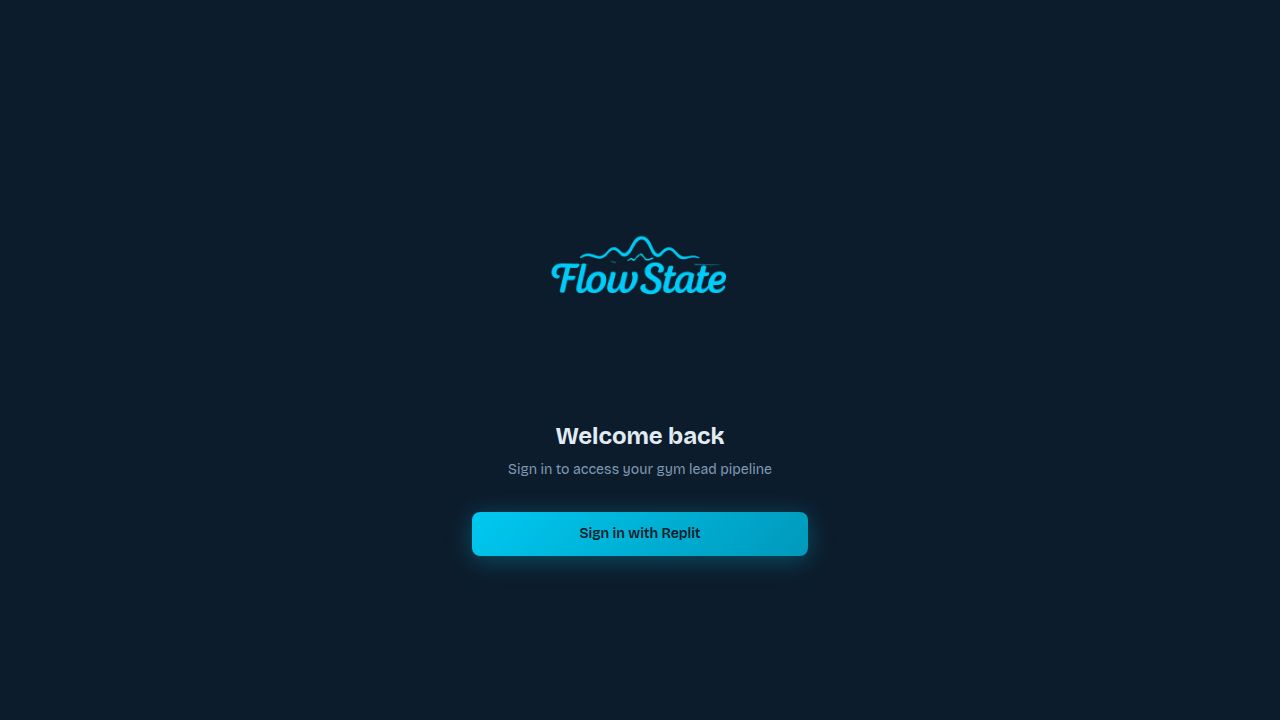
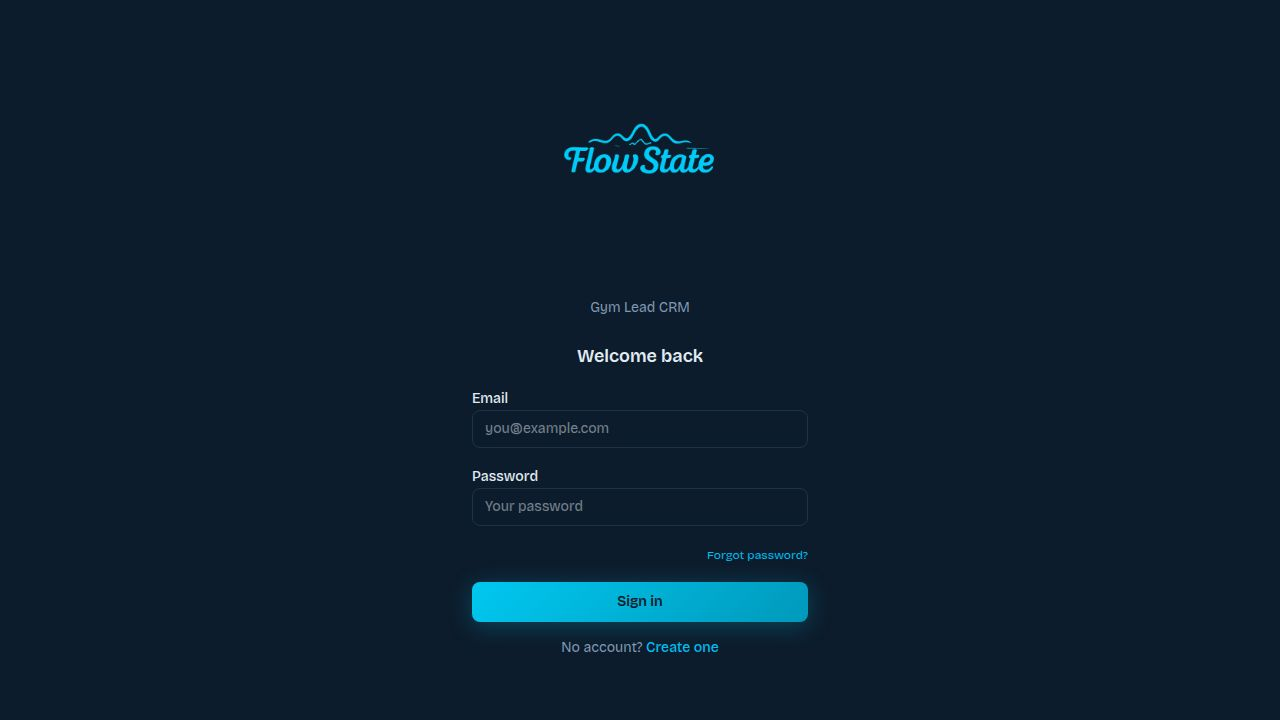
Replace Replit OIDC auth with email+password on web and mobile
- Fixed orval codegen naming conflict: renamed OpenAPI auth schemas to use
  Input/Result suffixes so orval-generated Zod names don't clash with TS interfaces
- Added GET /auth/verify-email to OpenAPI spec to match backend (was missing)
- Converted lib/replit-auth-web to a proper React Context (AuthProvider + useAuth)
  so logout from the sidebar propagates globally and LoginGate re-evaluates
- Updated gym-leads App.tsx to wrap with <AuthProvider>; full email+password UI
  with Login, Register, ForgotPassword, CheckEmail, ResetPassword views
- Rewrote mobile AuthContext.tsx: Bearer token stored in SecureStore, login()
  calls POST /api/auth/login, logout clears token + calls /api/logout
- Rewrote mobile login.tsx: email+password form with forgot-password flow
- auth.ts getSessionId() supports both Cookie and Authorization: Bearer header
- Removed openid-client from api-server, expo-auth-session from gym-mobile
- End-to-end tested: registration, login (cookie + Bearer), protected routes,
  logout all verified working; codegen and TypeScript typecheck pass

diff --git a/lib/replit-auth-web/src/use-auth.ts b/lib/replit-auth-web/src/use-auth.ts
@@ -1,7 +1,15 @@
-import { useState, useEffect, useCallback } from "react";
-import type { AuthUser } from "@workspace/api-client-react";
+import { useState, useEffect, useCallback, createContext, useContext, type ReactNode } from "react";
+import { createElement } from "react";
 
-export type { AuthUser };
+export interface AuthUser {
+  id: string;
+  email: string | null;
+  name: string | null;
+  role: string;
+  firstName: string | null;
+  lastName: string | null;
+  profileImageUrl: string | null;
+}
 
 interface AuthState {
   user: AuthUser | null;
@@ -11,13 +19,16 @@ interface AuthState {
   refetch: () => void;
 }
 
-export function useAuth(): AuthState {
+const AuthContext = createContext<AuthState | null>(null);
+
+export function AuthProvider({ children }: { children: ReactNode }) {
   const [user, setUser] = useState<AuthUser | null>(null);
   const [isLoading, setIsLoading] = useState(true);
   const [tick, setTick] = useState(0);
 
   useEffect(() => {
     let cancelled = false;
+    setIsLoading(true);
 
     fetch("/api/auth/user", { credentials: "include" })
       .then((res) => {
@@ -51,11 +62,16 @@ export function useAuth(): AuthState {
     setTick((t) => t + 1);
   }, []);
 
-  return {
-    user,
-    isLoading,
-    isAuthenticated: !!user,
-    logout,
-    refetch,
-  };
+  return createElement(AuthContext.Provider, {
+    value: { user, isLoading, isAuthenticated: !!user, logout, refetch },
+    children,
+  });
+}
+
+export function useAuth(): AuthState {
+  const ctx = useContext(AuthContext);
+  if (!ctx) {
+    throw new Error("useAuth must be used inside <AuthProvider>. Wrap your app in <AuthProvider>.");
+  }
+  return ctx;
 }

diff --git a/artifacts/gym-leads/src/App.tsx b/artifacts/gym-leads/src/App.tsx
@@ -11,7 +11,7 @@ import LeadDetail from "@/pages/lead-detail";
 import Sequences from "@/pages/sequences";
 import Analytics from "@/pages/analytics";
 import { useKeepAlive } from "@/hooks/use-keep-alive";
-import { useAuth } from "@workspace/replit-auth-web";
+import { useAuth, AuthProvider } from "@workspace/replit-auth-web";
 import { useState, useEffect } from "react";
 
 const queryClient = new QueryClient({
@@ -394,7 +394,9 @@ function App() {
     <QueryClientProvider client={queryClient}>
       <TooltipProvider>
         <WouterRouter base={import.meta.env.BASE_URL.replace(/\/$/, "")}>
-          <LoginGate />
+          <AuthProvider>
+            <LoginGate />
+          </AuthProvider>
         </WouterRouter>
         <Toaster />
       </TooltipProvider>

diff --git a/lib/replit-auth-web/src/index.ts b/lib/replit-auth-web/src/index.ts
@@ -1,2 +1,2 @@
-export { useAuth } from "./use-auth";
+export { useAuth, AuthProvider } from "./use-auth";
 export type { AuthUser } from "./use-auth";
